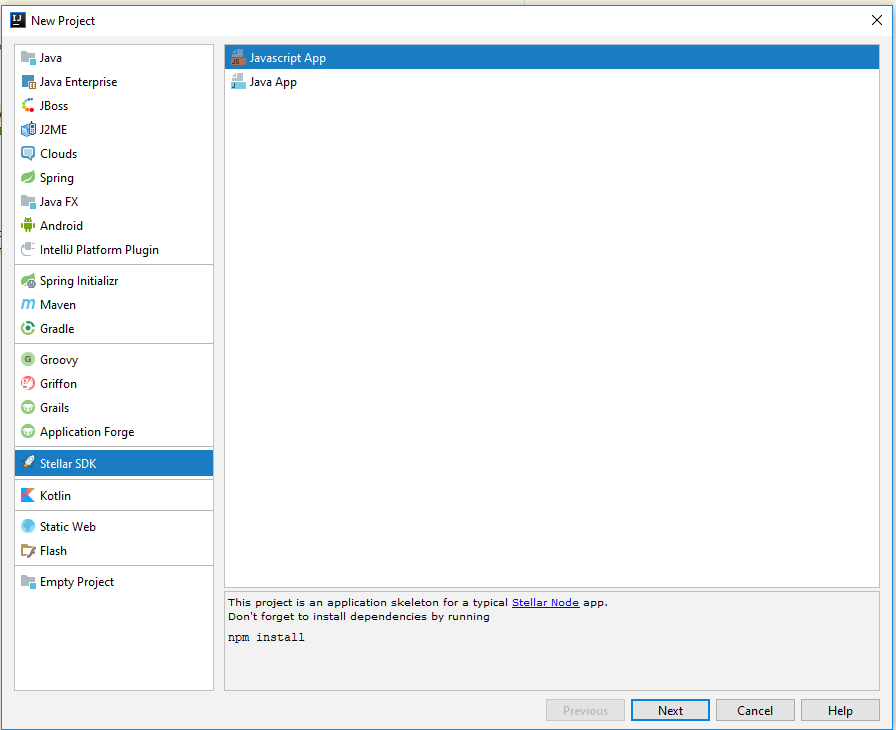
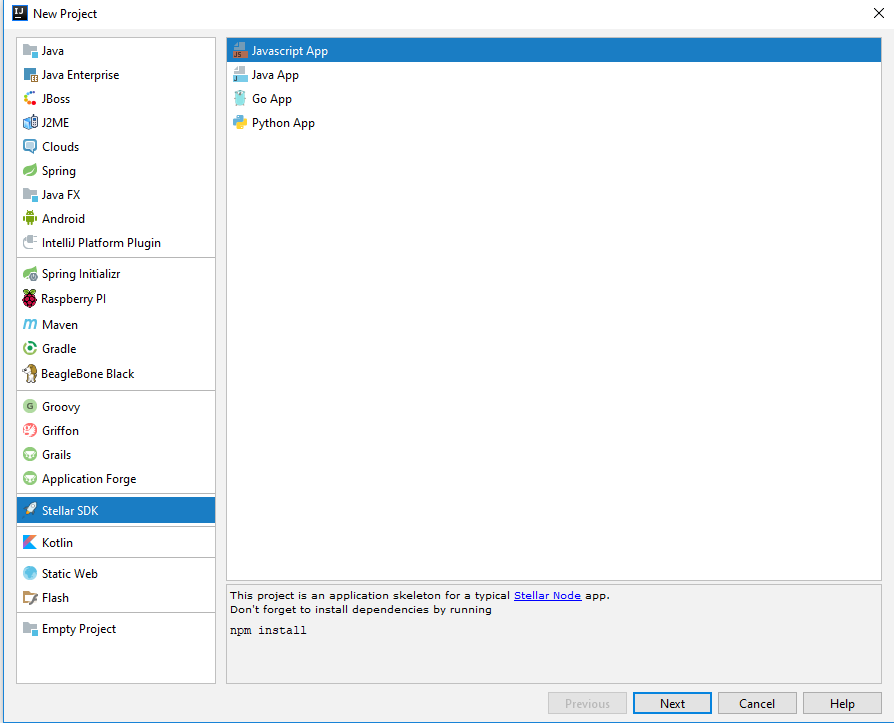
update resources

Changed region(s): [[0.0, 0.0, 1.0, 1.0], [0.6946, 0.9433, 0.906, 1.0], [0.9362, 0.9737, 0.9664, 1.0]]

diff --git a/README.md b/README.md
@@ -9,13 +9,11 @@ https://plugins.jetbrains.com/plugin/10432
 
 Stellar SDK IntelliJ is a Plugin for IntelliJ IDEA that makes it easier to develop apps on the Stellar platform.
 
-  - Supports Java and Javascript project templates
+  - Supports Java, Javascript, Python and Golang project templates
   - Help Section integrated into the IDE
   - Galactic Talk search queries.
 
-
 ### Future Add Ons to 
-  - Add more project templates such as Golang, python etc.
   - More internal tools to help with development.
   - Requests coming from the community.
   
